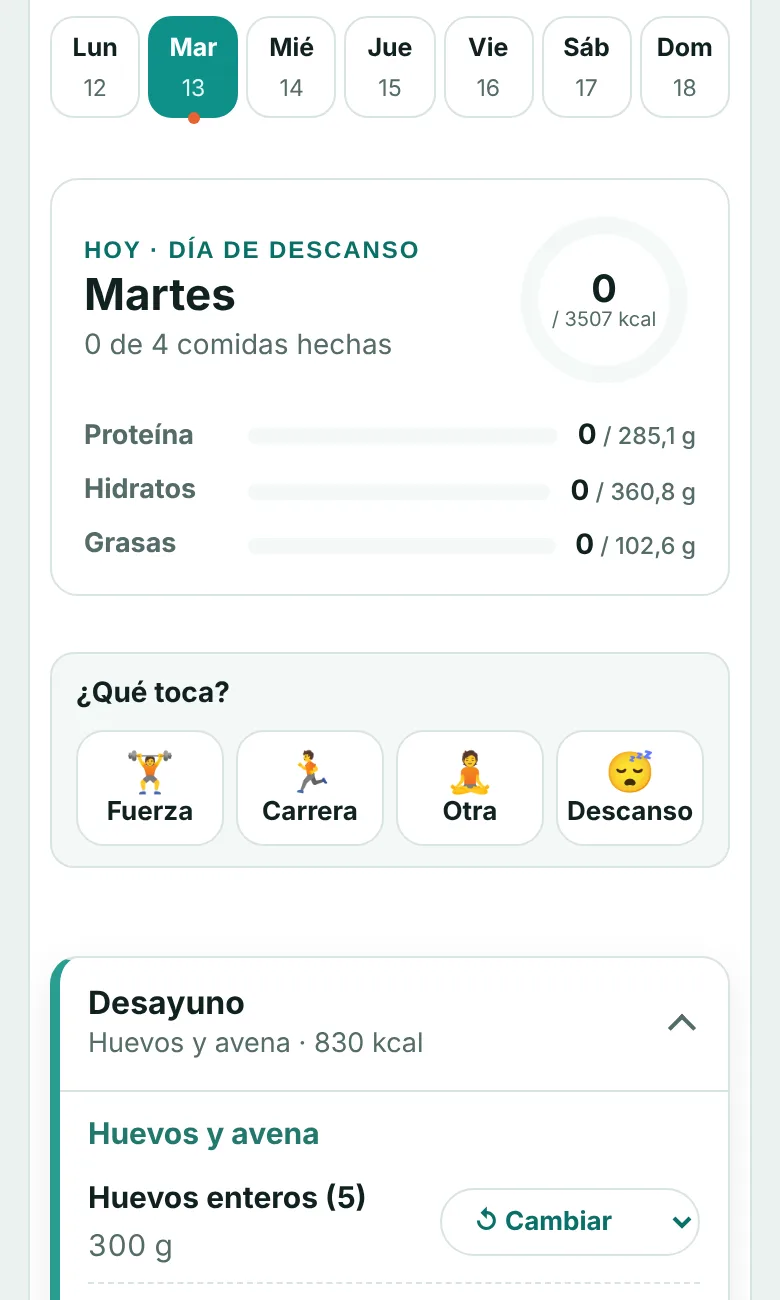
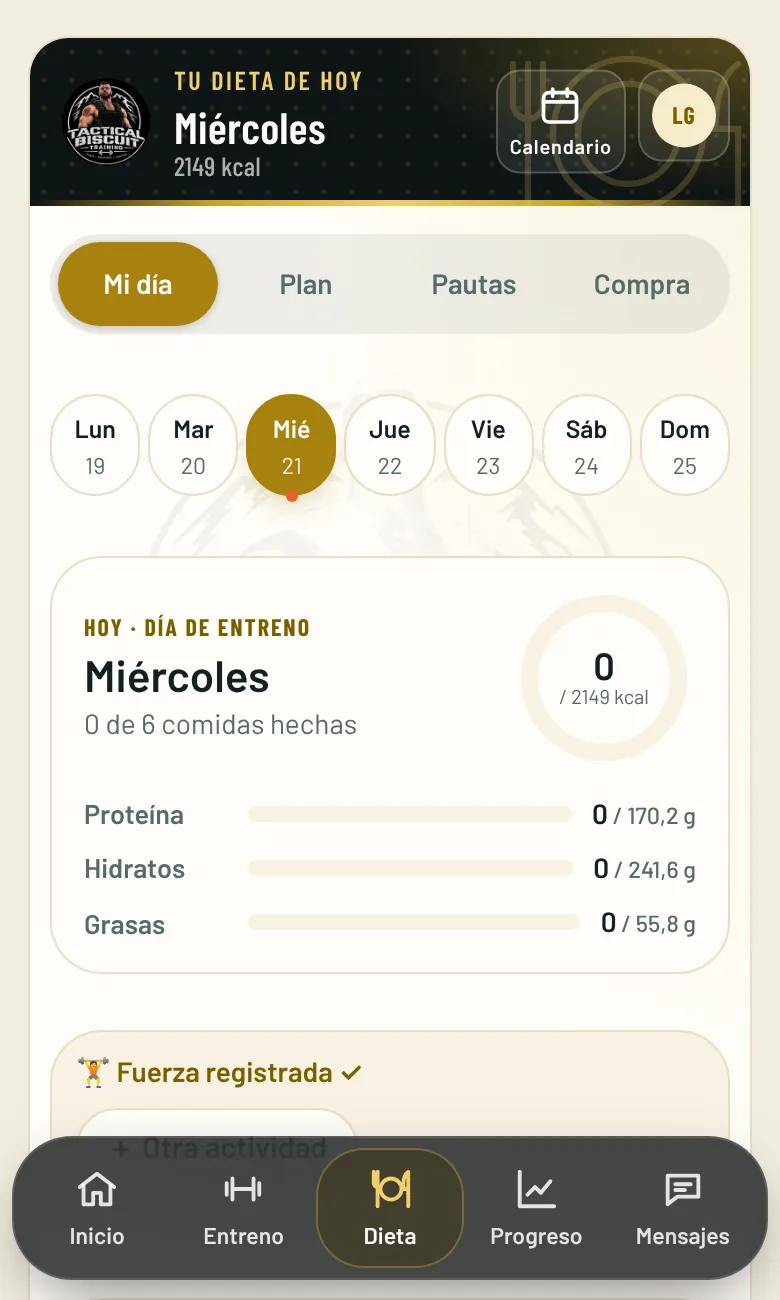
Web: capturas de la app con el diseño nuevo de cada pestaña

diff --git a/index.html b/index.html
@@ -404,9 +404,9 @@ html.intro, html.intro body { overflow: hidden; }
       </div>
       <div>
       <div class="phones rv" aria-label="Capturas de la app Team Biscuit">
-        <div class="phone"><img src="img/app-home.webp" alt="Pantalla de inicio de la app (cliente de ejemplo)" width="390" height="650"></div>
-        <div class="phone"><img src="img/app-ent.webp" alt="Pantalla de entrenamiento" width="390" height="650"></div>
-        <div class="phone"><img src="img/app-diet.webp" alt="Pantalla de dieta" width="390" height="650"></div>
+        <div class="phone"><img src="img/app-home.webp?v=2" alt="Pantalla de inicio de la app (cliente de ejemplo)" width="390" height="650"></div>
+        <div class="phone"><img src="img/app-ent.webp?v=2" alt="Pantalla de entrenamiento" width="390" height="650"></div>
+        <div class="phone"><img src="img/app-diet.webp?v=2" alt="Pantalla de dieta" width="390" height="650"></div>
       </div>
       <p class="swipe-hint" aria-hidden="true">Desliza para ver más →</p>
       </div>

diff --git a/en/index.html b/en/index.html
@@ -405,9 +405,9 @@ html.intro, html.intro body { overflow: hidden; }
       </div>
       <div>
       <div class="phones rv" aria-label="Team Biscuit app screenshots">
-        <div class="phone"><img src="../img/app-home.webp" alt="App home screen (sample client)" width="390" height="650"></div>
-        <div class="phone"><img src="../img/app-ent.webp" alt="Training screen" width="390" height="650"></div>
-        <div class="phone"><img src="../img/app-diet.webp" alt="Diet screen" width="390" height="650"></div>
+        <div class="phone"><img src="../img/app-home.webp?v=2" alt="App home screen (sample client)" width="390" height="650"></div>
+        <div class="phone"><img src="../img/app-ent.webp?v=2" alt="Training screen" width="390" height="650"></div>
+        <div class="phone"><img src="../img/app-diet.webp?v=2" alt="Diet screen" width="390" height="650"></div>
       </div>
       <p class="swipe-hint" aria-hidden="true">Swipe to see more →</p>
       </div>
